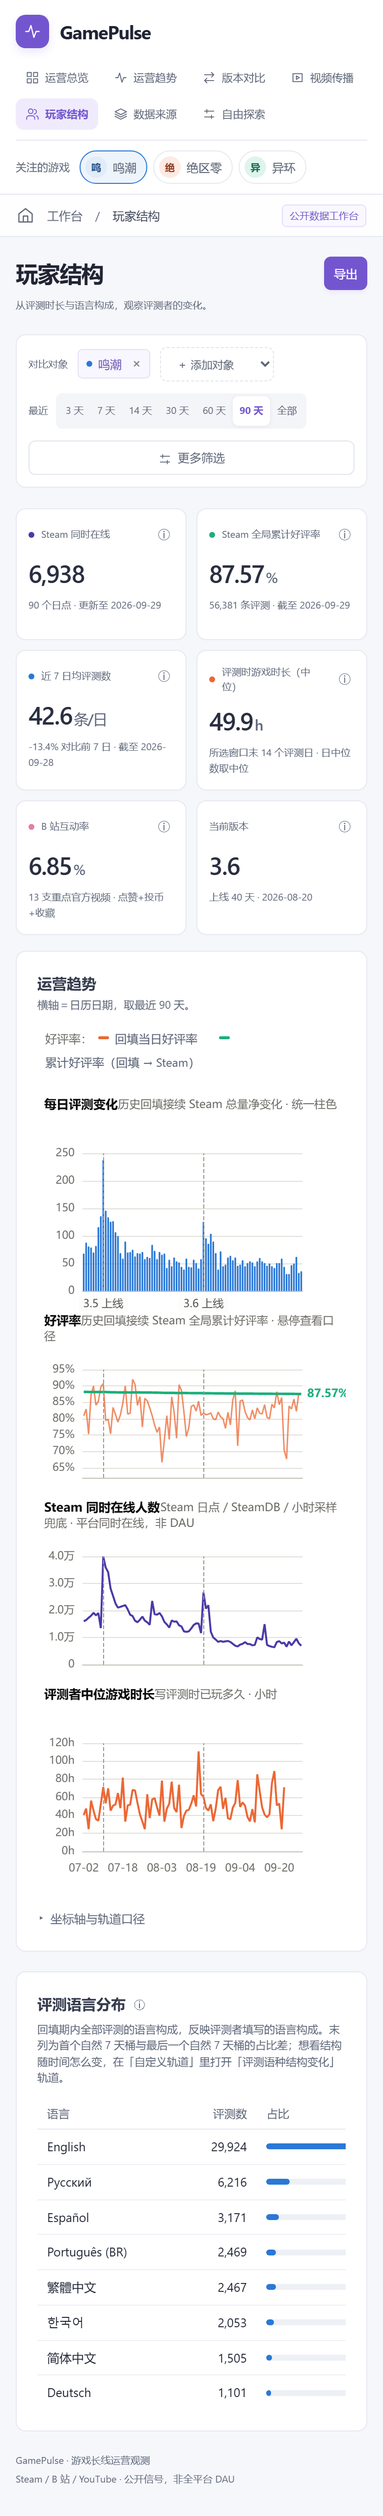
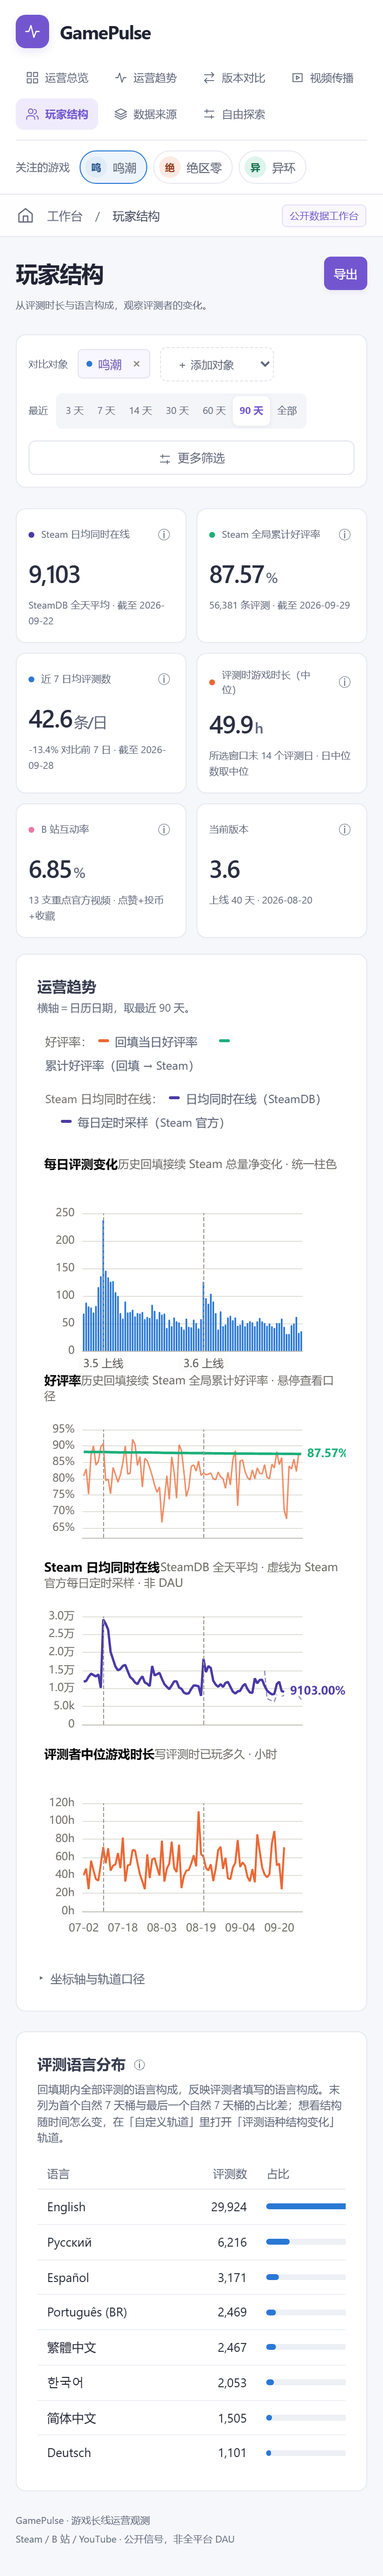
Use one comparable online-players definition
The online line used to fall back day by day from the official sample to
SteamDB's 00:00 point to the latest hourly sample. Those are taken at
different moments, so the line jumped whenever the source changed.

- Main value is SteamDB's all-day average; the official instantaneous
  sample is kept separately as a dashed reference line
- Version comparison uses the window mean of daily averages and only shows
  a delta when both windows are fully covered
- Hourly peak/trough requires 20+ samples, since the local machine is off
  at night and daytime-only samples cannot give a daily peak

diff --git a/dashboard/studio.js b/dashboard/studio.js
@@ -86,7 +86,7 @@
   for(const [id,parent] of [['cmpTable','windowTableCard'],['cadenceTable','cadenceTableCard'],['versionTable','versionTableCard'],['langTable','langTableCard']]) $(id).closest('.card').id=parent;
   const overview=document.createElement('section');overview.className='studio-overview';overview.setAttribute('aria-label','总览图表');
   overview.innerHTML=`
-    <article class="studio-card studio-chart-card"><div class="studio-card-heading"><div><h2>运营趋势</h2><p id="overviewNote">Steam 公开数据 · 随所选对象与时间范围变化</p></div><select id="demoMetric" aria-label="总览趋势指标"><option value="online">Steam 同时在线</option><option value="new_reviews">每日评测变化</option><option value="review_rate">累计好评率</option></select></div><div class="studio-legend" id="overviewLegend"></div><div id="overviewChart" role="img" aria-label="所选指标的时间趋势图"></div><button class="studio-text-button" data-page-nav="trends">展开完整时间轴 →</button></article>
+    <article class="studio-card studio-chart-card"><div class="studio-card-heading"><div><h2>运营趋势</h2><p id="overviewNote">Steam 公开数据 · 随所选对象与时间范围变化</p></div><select id="demoMetric" aria-label="总览趋势指标"><option value="online">Steam 日均同时在线</option><option value="new_reviews">每日评测变化</option><option value="review_rate">累计好评率</option></select></div><div class="studio-legend" id="overviewLegend"></div><div id="overviewChart" role="img" aria-label="所选指标的时间趋势图"></div><button class="studio-text-button" data-page-nav="trends">展开完整时间轴 →</button></article>
     <article class="studio-card studio-events-card"><div class="studio-card-heading"><h2>版本节点</h2><button class="studio-text-button" data-page-nav="versions">对比 →</button></div><p id="eventScope">所选窗口内的版本更新</p><div class="event-list" id="studioEvents"></div><div class="events-foot">节点表示更新日期，不自动推断因果</div></article>
     <article class="studio-card studio-video-card"><div class="studio-card-heading"><div><h2>官方内容表现</h2><p id="rankScope">角色 PV · 当前累计播放 · 按发布日期筛选</p></div><button class="studio-text-button" data-page-nav="videos">视频分析 →</button></div><div class="ranking-tabs" role="group" aria-label="排行来源"><button data-rank-source="bilibili" aria-pressed="true">B 站</button><button data-rank-source="global" aria-pressed="false">YouTube · 全球</button><button data-rank-source="ja" aria-pressed="false">日语</button><button data-rank-source="ko" aria-pressed="false">韩语</button><button data-rank-source="zh-tw" aria-pressed="false">繁中</button></div><div id="studioRanking"></div></article>
     <article class="studio-card"><div class="studio-card-heading"><h2>数据覆盖</h2><button class="studio-text-button" data-page-nav="sources">详情 →</button></div><p id="qualityScope">所选主对象的数据快照</p><div id="studioQuality"></div></article>`;
@@ -172,12 +172,14 @@
     const metric=$('demoMetric').value;
     const lane={...config.lanes.find(l=>l.id===metric)};
     if(metric==='review_rate')lane.series=lane.series.filter(s=>s.field==='display_cumulative_review_rate');
+    // 多个对象时只画日均；单个对象时附带官方定时采样虚线，补上 SteamDB 导入日之后的几天
+    if(metric==='online'&&subjects.length>1)lane.series=lane.series.filter(s=>s.field==='value');
     const result=ADAPTERS.series(lane,ctx);
     const visible=result.series.filter(s=>!hiddenSubjects.has(s.subject.key));
     // 颜色跟随对象：游戏用 index.json 的游戏色，版本用固定的版本色
     const colors=visible.map(s=>s.subject.color);
     $('overviewLegend').innerHTML=visible.map((s,i)=>`<span style="--mark:${esc(colors[i])}">${esc(s.name)}</span>`).join('');
-    $('overviewNote').textContent=metric==='online'?'Steam 同时在线日点 · 包含第三方历史点位 · 非 DAU':metric==='new_reviews'?'评测数（按发布日回填）/ Steam 净变化 · 缺采保留为空':'游戏全局累计好评率 · 回填接续 Steam 观测';
+    $('overviewNote').textContent=metric==='online'?'实线：SteamDB 全天平均 · 虚线：Steam 官方每日定时采样 · 非 DAU':metric==='new_reviews'?'评测数（按发布日回填）/ Steam 净变化 · 缺采保留为空':'游戏全局累计好评率 · 回填接续 Steam 观测';
     const versionMarks=ctx.multi?[]:(subjects[0].snap.events||[]).filter(e=>e.is_version_boundary).map(e=>({name:`${e.version_id} 更新`,xAxis:axisKeyOf(e.date_local,subjects[0],align)})).filter(e=>ctx.axis.keys.includes(e.xAxis));
     overviewChart.setOption({animation:false,textStyle:{fontFamily:FONT},aria:{enabled:true,label:{description:`${$('demoMetric').selectedOptions[0].textContent}趋势：${visible.map(s=>s.name).join('、')}`}},tooltip:{trigger:'axis',confine:true,backgroundColor:'#fff',borderColor:'#e9e6f0',textStyle:{color:'#515b70',fontSize:11}},grid:{left:8,right:14,top:29,bottom:9,containLabel:true},
       xAxis:{type:'category',data:ctx.axis.keys,boundaryGap:metric==='new_reviews',axisLine:{show:false},axisTick:{show:false},axisLabel:{color:'#5f6779',fontSize:10,formatter:k=>axisLabelOf(k,align),hideOverlap:true}},

diff --git a/dashboard/app.js b/dashboard/app.js
@@ -169,8 +169,8 @@ function color(slot) {
 /* 就近口径：每个指标一条，点 ⓘ 在原地展开。
    这些话原本全都挤在页面最底部那段 400 字里 —— 离它解释的数字有三屏远。 */
 const METRIC_INFO = {
-  online: { t: 'Steam 同时在线',
-    d: '平台同时在线测值，不是 DAU，也不是总玩家数。同日优先使用有效的 Steam 官方观测，其次是 SteamDB Players 点位，最后用当天最新的有效小时采样兜底；这些都不是全天均值。' },
+  online: { t: 'Steam 日均同时在线',
+    d: 'SteamDB 统计的全天平均同时在线人数，是唯一可跨日、跨版本比较的在线口径；需手动导入，更新到最近一次导入日。Steam 官方接口只给采集时刻的瞬时在线，另画成虚线作参考，不与日均拼接。都不是 DAU，也不是总玩家数。' },
   cum_rate: { t: 'Steam 全局累计好评率',
     d: 'Steam appreviews 每日返回的全局好评数 ÷ 总评测数，统计当前仍存在的评测。每日采集后会更新；版本窗口好评率另由评测明细按发布日回填重建，两者不是同一个数。' },
   avg7: { t: '近 7 日日均评测数',
@@ -913,6 +913,8 @@ function windowStats(subject) {
     online: online.length ? online[online.length - 1].value : null,
     onlineDate: online.length ? online[online.length - 1].date_local : null,
     onlinePoints: online.length,
+    onlineMean: online.length
+      ? online.reduce((sum, o) => sum + o.value, 0) / online.length : null,
     versions: versions.length,
     versionList: versions,
     avg7: a7,
@@ -952,8 +954,8 @@ function renderTiles(ctx) {
     const w = windowStats(s);
     const rateLabel = s.kind === 'version' ? VERSION_RATE_LABEL : 'Steam 全局累计好评率';
     const onlineNote = w.onlinePoints
-      ? `${fmt(w.online)} 窗口末在线 · ${w.onlineDate} · ${w.onlinePoints} 个日点`
-      : '窗口内暂无在线日点';
+      ? `${fmt(w.online)} 日均在线 · 截至 ${w.onlineDate} · ${w.onlinePoints} 天`
+      : '窗口内暂无日均在线数据';
     const value = w.dailyAvg != null
       ? `<div class="v">${w.dailyAvg.toFixed(1)}<span class="unit">条/日</span></div>`
       : `<div class="v na">窗口内暂无评测数据</div>`;
@@ -1012,10 +1014,10 @@ function singleGameTiles(subject) {
         na: '样本不足：近 7 个自然日有缺采' };
 
   const tiles = [
-    { k: 'Steam 同时在线', swatch: color('slot7'), info: 'online',
+    { k: 'Steam 日均同时在线', swatch: color('slot7'), info: 'online',
       v: w.onlinePoints ? fmt(w.online) : null,
-      n: `${w.onlinePoints} 个日点 · 更新至 ${w.onlineDate}`,
-      na: '窗口内暂无在线日点' },
+      n: `SteamDB 全天平均 · 截至 ${w.onlineDate}`,
+      na: '窗口内暂无日均在线数据（SteamDB 需手动导入）' },
     { k: 'Steam 全局累计好评率', swatch: color('slot3'), info: 'cum_rate',
       v: w.cumRate != null ? w.cumRate.toFixed(2) : null, unit: '%',
       n: `${fmt(w.totalReviews)} 条评测 · 截至 ${w.cumRateDate}`,
@@ -1862,9 +1864,9 @@ function renderSources(ctx) {
     `<b>逐日评测明细历史是回填重建的，不是原始记录。</b>由 Steam appreviews 游标翻页回填
      （${covLines}）；上次全量样本每日补入近期评测，旧评测的删除或编辑每周全量校准。
      版本窗口好评率只画到明细覆盖日。`,
-    `<b>Steam 同时在线日点来自官方采样、SteamDB 和小时采样。</b>同日先取有效的
-     官方观测，再取 SteamDB Players 点位，最后用当天最新的有效小时采样兜底；
-     它不代表全天均值、DAU 或总玩家数。目前各对象分别有 ${onlinePts.join(' / ')} 个日点。`,
+    `<b>Steam 在线只用一个可比口径：SteamDB 全天平均同时在线。</b>官方接口的每日定时
+     瞬时采样另画虚线，不与日均拼成一条线；它们都不是 DAU 或总玩家数。
+     目前各对象分别有 ${onlinePts.join(' / ')} 天日均数据。`,
     `<b>所有事件只表示时间节点，不表示因果关系。</b>版本更新竖线取自 Steam 官方公告，
      构建号来自 SteamCMD 第三方镜像（仅作旁证）。`,
   ];

diff --git a/dashboard/studio-details.js b/dashboard/studio-details.js
@@ -84,7 +84,7 @@
       {title:'窗口评测数',unit:'条',values:stats.map(w=>w.dailyAvgBasis==='surviving_review_backfill'?w.historicalReviews:w.reviews),digits:0,valid:sameBasis,tip:BACKFILL_TIP,note:sameBasis?(stats[0].dailyAvgBasis==='surviving_review_backfill'?`${span} · 按发布日回填，已删除的评测不计入`:'Steam 总评测数净变化'):'统计口径不同，暂不计算差值'},
       {title:'窗口日均评测数',unit:'条 / 日',values:stats.map(w=>w.dailyAvg),digits:1,valid:sameBasis,note:'窗口评测数 ÷ 有效覆盖天数'},
       {title:versions?VERSION_RATE_LABEL:'累计好评率',unit:'%',values:stats.map(w=>w.rate),digits:2,valid:pair[0].kind===pair[1].kind,percent:true,note:versions?`${span}内新增评测的好评占比（按发布日回填）；不是游戏整体累计好评率`:'混合对象口径不同，差值仅同类展示'},
-      {title:'窗口末同时在线',unit:'人',values:stats.map(w=>w.onlinePoints?w.online:null),digits:0,valid:false,note:`日点：A ${stats[0].onlineDate||'暂无'} / B ${stats[1].onlineDate||'暂无'} · 采样时刻不同，不计算差值 · 非 DAU`},
+      {title:'窗口日均同时在线',unit:'人',values:stats.map(w=>w.onlineMean),digits:0,valid:stats.every(w=>w.onlinePoints&&w.onlinePoints===w.windowDays),note:stats.every(w=>w.onlinePoints===w.windowDays)?`SteamDB 全天平均的窗口均值 · 两侧均覆盖 ${stats[0].windowDays} 天 · 非 DAU`:`SteamDB 日均覆盖：A ${stats[0].onlinePoints}/${stats[0].windowDays} 天，B ${stats[1].onlinePoints}/${stats[1].windowDays} 天 · 覆盖不全，不计算差值`},
     ];
     $('compareMetrics').innerHTML=rows.map(row=>{
       const [a,b]=row.values;
@@ -103,8 +103,8 @@
     let series=ADAPTERS.series(lane,ctx).series;
     if(compareMetric==='review_rate'&&pair.every(s=>s.kind==='version'))series=series.filter(s=>s.dashed);
     const colors=pair.map(s=>s.color);
-    const label=compareMetric==='new_reviews'?'每日评测数':compareMetric==='online'?'Steam 同时在线':`${VERSION_RATE_LABEL}（自更新日累计）`;
-    $('compareChartNote').textContent=compareMetric==='review_rate'?(pair.every(s=>s.kind==='version')?'各版本从更新日重新累计，终点即上方卡片的版本窗口好评率 · 缺采保留为空':'游戏全局累计好评率 · 历史回填接续观测'):compareMetric==='new_reviews'?'评测数按发布日回填（已删除的评测不计入）/ Steam 净变化 · 颜色代表对比对象':'Steam / SteamDB 日点 · 同一阶段不代表同一采样时刻';
+    const label=compareMetric==='new_reviews'?'每日评测数':compareMetric==='online'?'Steam 日均同时在线':`${VERSION_RATE_LABEL}（自更新日累计）`;
+    $('compareChartNote').textContent=compareMetric==='review_rate'?(pair.every(s=>s.kind==='version')?'各版本从更新日重新累计，终点即上方卡片的版本窗口好评率 · 缺采保留为空':'游戏全局累计好评率 · 历史回填接续观测'):compareMetric==='new_reviews'?'评测数按发布日回填（已删除的评测不计入）/ Steam 净变化 · 颜色代表对比对象':'SteamDB 全天平均同时在线 · 同一口径可直接比较 · 非 DAU';
     $('compareLegend').innerHTML=pair.map((s,i)=>`<span><i style="background:${e(colors[i])}"></i>${i?'B':'A'} · ${e(s.label)}</span>`).join('');
     compareChart.setOption({animation:false,textStyle:{fontFamily:FONT},aria:{enabled:true,label:{description:`${label}：${pair.map((s,i)=>(i?'B ':'A ')+s.label).join('，')}，横轴为${align==='day0'?'各自更新后第 N 天':'日历日期'}`}},title:{text:label,left:8,top:0,textStyle:{fontSize:11,fontWeight:400,color:'#5f6779'}},tooltip:{trigger:'axis',confine:true},grid:{left:12,right:22,top:36,bottom:20,containLabel:true},
       xAxis:{type:'category',data:ctx.axis.keys,boundaryGap:compareMetric==='new_reviews',axisLine:{show:false},axisTick:{show:false},axisLabel:{fontSize:11,color:'#5f6779',formatter:k=>align==='day0'?'D'+k:k.slice(5),hideOverlap:true}},

diff --git a/dashboard/engine.js b/dashboard/engine.js
@@ -1460,12 +1460,10 @@ function buildTooltip(params, laneData, ctx) {
         }
       }
       if (lane.id === 'online' && rowMeta?.source) {
-        if (rowMeta.source === 'steamdb_chart') {
-          extra.push('SteamDB 图表日点');
-        } else if (rowMeta.source === 'steam_hourly_fallback') {
-          extra.push(`当天 ${rowMeta.hour_local ?? '—'}:00 小时采样兜底`);
-        } else if (rowMeta.source === 'steam_official') {
-          extra.push('Steam 官方日采样');
+        if (def.field === 'spot') {
+          extra.push('Steam 官方采集时刻的瞬时值，非日均');
+        } else if (rowMeta.source === 'steamdb_average') {
+          extra.push('SteamDB 全天平均');
         }
       }
       s += row(def.color, def.name, toText(v),

diff --git a/pipeline/metrics.py b/pipeline/metrics.py
@@ -63,65 +63,52 @@ def review_rate(positive: int | None, total: int | None) -> float | None:
 
 def merge_online_observations(steam_records: list[dict],
                               steamdb_records: list[dict],
-                              hourly_records: list[dict]) -> list[dict]:
-    """Prefer valid official daily points, then SteamDB, then hourly samples.
+                              hourly_records: list[dict] | None = None) -> list[dict]:
+    """日均同时在线为主值，官方定时采样作为旁证，两种口径不拼接。
 
-    An unavailable official request cannot erase an observed fallback value.
-    The hourly fallback is the latest successful point of that date, not a DAU.
+    过去同一条线按「官方日采 → SteamDB 00:00 点位 → 当天最新小时采样」逐日兜底，
+    三者的采样时刻各不相同，曲线在切换来源的那天会出现并不存在的跳变。
+
+    - value：SteamDB 全天平均同时在线（Average Players），唯一可跨版本比较的口径；
+    - spot：Steam 官方接口在每日采集时刻的瞬时在线，只作最近几天的参考。
+
+    小时采样依赖本机开机，夜间通常缺失，算不出全天均值，这里不再用它兜底。
     """
-    by_date = {
-        row["date_local"]: row
-        for row in steamdb_records
-        if row.get("current_players") is not None
-    }
-    for sample in sorted(hourly_records,
-                         key=lambda r: (r.get("date_local", ""),
-                                        r.get("hour_local", -1))):
-        if sample.get("players") is None:
-            continue
-        date_local = sample["date_local"]
-        by_date.setdefault(date_local, {
-            "date_local": date_local,
-            "current_players": sample["players"],
-            "source": "steam_hourly_fallback",
-            "hour_local": sample.get("hour_local"),
+    by_date: dict[str, dict] = {}
+
+    def row(date_local: str) -> dict:
+        return by_date.setdefault(date_local, {
+            "date_local": date_local, "value": None, "source": None,
+            "spot": None, "spot_at": None,
         })
-        if by_date[date_local].get("source") == "steam_hourly_fallback":
-            by_date[date_local] = {
-                "date_local": date_local,
-                "current_players": sample["players"],
-                "source": "steam_hourly_fallback",
-                "hour_local": sample.get("hour_local"),
-            }
-    for row in steam_records:
-        date_local = row["date_local"]
-        if row.get("current_players") is not None or date_local not in by_date:
-            by_date[date_local] = {**row, "source": "steam_official"}
+
+    for rec in steamdb_records:
+        average = rec.get("average_players")
+        if average is not None:
+            r = row(rec["date_local"])
+            r["value"], r["source"] = average, "steamdb_average"
+    for rec in steam_records:
+        players = rec.get("current_players")
+        if players is not None and rec.get("source") != "steamdb_chart":
+            r = row(rec["date_local"])
+            r["spot"], r["spot_at"] = players, rec.get("sampled_at")
     return [by_date[d] for d in sorted(by_date)]
 
 
-def online_series(steam_records: list[dict]) -> list[dict]:
-    out = []
-    for rec in steam_records:
-        value = rec.get("current_players")
-        out.append({
-            "date_local": rec["date_local"],
-            "value": value,
-            "status": OBSERVED if value is not None else UNAVAILABLE,
-            "source": rec.get("source", "steam_official"),
-            "hour_local": rec.get("hour_local"),
-        })
-    return out
+def online_series(rows: list[dict]) -> list[dict]:
+    return [{**r, "status": OBSERVED if r.get("value") is not None else UNAVAILABLE}
+            for r in rows]
 
 
-def online_daily(hourly_records: list[dict], min_samples: int = 6) -> list[dict]:
+def online_daily(hourly_records: list[dict], min_samples: int = 20) -> list[dict]:
     """把小时级采样聚合成日峰值 / 日谷值 / 日均值。
 
     单点日采只能得到「某一时刻的在线数」，无法区分「整体盘子变大」和
     「采样时刻恰好撞上活跃高峰」。小时级采样后，峰谷比与峰值出现时刻
     才有意义 —— 后者还能反过来佐证玩家的地域构成。
 
-    采样数不足 min_samples 的日期标 partial：半天的样本算不出真实日峰值。
+    采样数不足 min_samples 的日期标 partial：小时采样依赖本机开机，夜间常缺，
+    只有白天几个小时的样本算不出真实的日峰值与日谷值。
     """
     by_date: dict[str, list[dict]] = {}
     for rec in hourly_records:

diff --git a/tests/test_metrics.py b/tests/test_metrics.py
@@ -39,36 +39,35 @@ class TestReviewRate(unittest.TestCase):
         self.assertEqual(out[-1]["total_reviews"], 56111)
 
 
-class TestOnlineFallback(unittest.TestCase):
-    def test_unavailable_official_point_keeps_observed_fallback(self):
+class TestOnlineDefinition(unittest.TestCase):
+    """主值只用全天均值；官方瞬时采样单独保存，不按天拼接不同口径。"""
+
+    def test_daily_average_and_spot_are_separate(self):
         steam = [
-            {"date_local": "2026-09-17", "current_players": None},
-            {"date_local": "2026-09-18", "current_players": 300},
-            {"date_local": "2026-09-20", "current_players": None},
+            {"date_local": "2026-09-21", "current_players": 7000,
+             "sampled_at": "2026-09-21T05:20:00+00:00"},
+            {"date_local": "2026-09-23", "current_players": 6500},
+            {"date_local": "2026-09-24", "current_players": None},
         ]
         steamdb = [
-            {"date_local": "2026-09-17", "current_players": 200,
+            {"date_local": "2026-09-21", "current_players": 7776, "average_players": 9246,
              "source": "steamdb_chart"},
-            {"date_local": "2026-09-18", "current_players": 250,
+            {"date_local": "2026-09-22", "current_players": 7908, "average_players": None,
              "source": "steamdb_chart"},
         ]
-        hourly = [
-            {"date_local": "2026-09-17", "hour_local": 12, "players": 180},
-            {"date_local": "2026-09-19", "hour_local": 11, "players": 100},
-            {"date_local": "2026-09-19", "hour_local": 12, "players": None},
-            {"date_local": "2026-09-19", "hour_local": 13, "players": 110},
-        ]
-        merged = metrics.merge_online_observations(steam, steamdb, hourly)
-        by_date = {r["date_local"]: r for r in metrics.online_series(merged)}
+        by_date = {r["date_local"]: r for r in metrics.online_series(
+            metrics.merge_online_observations(steam, steamdb))}
 
-        self.assertEqual(by_date["2026-09-17"]["value"], 200)
-        self.assertEqual(by_date["2026-09-17"]["source"], "steamdb_chart")
-        self.assertEqual(by_date["2026-09-18"]["value"], 300)
-        self.assertEqual(by_date["2026-09-18"]["source"], "steam_official")
-        self.assertEqual(by_date["2026-09-19"]["value"], 110)
-        self.assertEqual(by_date["2026-09-19"]["hour_local"], 13)
-        self.assertIsNone(by_date["2026-09-20"]["value"])
-
+        self.assertEqual(by_date["2026-09-21"]["value"], 9246)
+        self.assertEqual(by_date["2026-09-21"]["source"], "steamdb_average")
+        self.assertEqual(by_date["2026-09-21"]["spot"], 7000)
+        # SteamDB 的单时刻点位不是全天均值，不能顶替主值
+        self.assertNotIn("2026-09-22", by_date)
+        # 只有官方瞬时采样的日期：主值留空，而不是用瞬时值冒充日均
+        self.assertIsNone(by_date["2026-09-23"]["value"])
+        self.assertEqual(by_date["2026-09-23"]["status"], "unavailable")
+        self.assertEqual(by_date["2026-09-23"]["spot"], 6500)
+        self.assertNotIn("2026-09-24", by_date)
 
 class TestNewReviewSeries(unittest.TestCase):
     def test_first_point_has_no_baseline(self):
@@ -252,7 +251,8 @@ class TestOnlineDaily(unittest.TestCase):
                 for h, p in zip(range(n), players)]
 
     def test_peak_trough_and_ratio(self):
-        out = metrics.online_daily(self._samples(8, [10, 20, 30, 40, 35, 25, 15, 12]))
+        players = [10, 20, 30, 40, 35, 25, 15, 12] + [20] * 14
+        out = metrics.online_daily(self._samples(22, players))
         day = out[0]
         self.assertEqual(day["peak"], 40)
         self.assertEqual(day["trough"], 10)
@@ -261,10 +261,10 @@ class TestOnlineDaily(unittest.TestCase):
         self.assertEqual(day["status"], "observed")
 
     def test_thin_sampling_marked_partial(self):
-        """半天的样本算不出真实日峰值，必须标 partial 而不是当作完整日。"""
-        out = metrics.online_daily(self._samples(3, [10, 20, 30]))
+        """白天几个小时的样本算不出真实日峰值，必须标 partial 而不是当作完整日。"""
+        out = metrics.online_daily(self._samples(9, [10, 20, 30, 40, 50, 60, 70, 80, 90]))
         self.assertEqual(out[0]["status"], "partial")
-        self.assertEqual(out[0]["samples"], 3)
+        self.assertEqual(out[0]["samples"], 9)
 
     def test_unavailable_samples_are_skipped_not_zeroed(self):
         samples = self._samples(6, [10, 20, 30, 40, 50, 60])

diff --git a/pipeline/build_snapshot.py b/pipeline/build_snapshot.py
@@ -338,7 +338,7 @@ def _build(game_id: str) -> dict:
     # 按语区取数时会整体消失。把数量摆出来，让它成为一个能被发现的问题。
     yt_unassigned = [s for s in yt_videos.values() if not s.get("locale")]
 
-    issues = quality.check(steam, bili)
+    issues = quality.check(steam, bili, today_local())
 
     version_updates = load_yaml("versions.yml").get(game_id) or {}
     events = build_events(news, price_points, videos, yt_videos, builds,
@@ -362,8 +362,7 @@ def _build(game_id: str) -> dict:
 
     # Keep a valid SteamDB or hourly point when the official daily request
     # timed out. Null must never replace an already observed value.
-    online_observations = metrics.merge_online_observations(
-        steam, online_history, online_hourly)
+    online_observations = metrics.merge_online_observations(steam, online_history)
 
     # 回填的评测历史与逐日采集分开存放：前者是 reconstructed（只含今天仍存在
     # 的评测，早期日期偏低），后者是 observed。两者不可混成一条线。

diff --git a/docs/technical-notes.md b/docs/technical-notes.md
@@ -17,7 +17,7 @@
 | 来的是什么人 | 评测者写评测时的游戏时长分布：2 小时内 vs 100 小时以上 |
 | 玩家来源结构在变吗 | 评测语种构成的 7 天分桶变化 |
 | 官方视频是真的火还是只是推荐位给得多 | 互动率（点赞+投币+收藏）/ 播放，跨视频可比 |
-| 在线是盘子变大还是采样撞上高峰 | 小时级采样出的日峰值 / 日谷值 / 峰谷比 |
+| 在线盘子怎么变 | SteamDB 全天平均同时在线，按版本窗口求均值后比较 |
 | 版本到底哪天更新的 | Steam 官方公告 + SteamCMD 构建号双重证据 |
 | 这个版本比上个版本好吗 | 把两个版本窗口按各自更新日对齐，逐日并排看 |
 
@@ -316,7 +316,13 @@ YouTube 可补充海外传播侧的公开信号，但无法证明其观众与 St
 
 ## 口径说明
 
-- **Steam 在线人数**：平台同时在线观测值，不是 DAU，也不是玩家总数。历史日点可由 SteamDB Charts CSV 手工回填；同日优先用有效的 Steam 官方日点，其次用 SteamDB `Players` 点位，最后用当天最新的有效小时采样。官方请求超时的 `null` 不会覆盖已有点位；SteamDB 的 `Average Players` 不等于该点位。
+- **Steam 在线人数只用一个可比口径：日均同时在线。** 主值是 SteamDB Charts 导出的
+  `Average Players`（全天平均），版本对比取窗口内日均的平均值，两侧覆盖天数不同就不计算差值。
+  Steam 官方接口只返回采集那一刻的瞬时在线，作为 `spot` 单独保存、画成虚线，只作最近几天的参考。
+  过去同一条线按「官方日采 → SteamDB 00:00 点位 → 当天最新小时采样」逐日兜底，三者采样时刻不同，
+  曲线在切换来源那天出现并不存在的跳变；现在两种口径不再拼接。都不是 DAU，也不是玩家总数。
+- **小时峰谷只在采样完整时成立**：小时采样依赖本机开机，夜间常缺，每天实际只有 3–9 个白天样本。
+  少于 20 个样本的日期标 `partial`，不把白天的最高值当作日峰值。
 - **Steam 评测净增**：相邻日总评测数的差值，包含新增与删除评测；缺采时按跨日净变化计算，不是精确新增量，也不是玩家数。
 - **Steam 累计好评率**：每日从 appreviews 汇总读取全局好评数 ÷ 总评测数；版本滚动累计好评率来自每日评测明细回填，覆盖日期以看板标注为准。
 - **评测历史为回填重建**：全量基底只含上次全量运行时仍存在的评测，日常增量补进近期评测；
@@ -329,7 +335,9 @@ YouTube 可补充海外传播侧的公开信号，但无法证明其观众与 St
   这种差异受到观测窗口长度的显著影响，不能直接解释为留存变化。因此窗口不足 14 天的日期一律留空，
   且该指标被硬性排除在版本前后对比之外——更新日之后的窗口永远离今天更近，
   放进对比表等于系统性地造出「每次更新后留存都下降」。
-- **Steam 在线历史不能通过 Steam 官方接口回填**；导入的 SteamDB CSV 日点标记为第三方来源，不代表全天均值或 DAU。
+- **Steam 在线历史不能通过 Steam 官方接口回填**；SteamDB 日均为第三方来源，需手动导出 CSV 后导入，
+  日均曲线只更新到最近一次导入日。SteamDB 导出的日汇总按 UTC 自然日统计，与本项目 UTC+8 业务日有 8 小时偏移；
+  跨版本比较的是同一口径的窗口均值，偏移对两侧相同。
 - **B 站/YouTube 播放量**：接口只返回当前累计值，没有历史曲线。散点轨道画的是
   「发布日 × 当前累计值」，不是当日播放量，也不是全站播放量或独立观众数。
   **拿当前累计值跨视频比是不公平的** —— 等于拿上线一年的游戏和上线一周的
@@ -354,8 +362,6 @@ YouTube 可补充海外传播侧的公开信号，但无法证明其观众与 St
 - **播放量不分地区**：`statistics.viewCount` 是全球累计值，公开 API 不提供
   按地区的拆分（那属于频道所有者的 YouTube Analytics）。本项目的「语区」
   指的是官方开设的语区频道，不是同一支视频的地区播放拆分。
-- **在线人数对已结束的版本窗口留空**。在线只有「现在」这一个观测值，
-  拿它代表一段历史窗口，会让两个历史版本显示出同一个数。
 - **构建号来自第三方镜像**，标 `third_party`，仅作官方公告的旁证。
 - **事件仅表示时间节点，不自动表示因果关系。**
 
@@ -443,8 +449,8 @@ node tools/shoot.mjs --all                            # 需先启动 http 服务
 
 ## 已知限制
 
-- 逐日在线序列数据点仍很少，正式趋势复盘应在连续采集 30 天以上再做；
-  小时级采样自 2026-09-14 起才开始积累。
+- 自有的逐日采集自 2026-09-14 起才开始积累；更早的在线数据来自 SteamDB 导入，评测来自回填重建。
+  SteamDB 没有可用的自动接口，日均在线需要定期手动导出更新。
 - B 站视频为人工登记，不覆盖全部官方内容，也不含创作者视频。
 - YouTube 未配置 Key 时该平台数据为空。2026-09-16 至 09-28 因计划任务缺少代理，
   YouTube 仅有 09-17（部分）与 09-22 两天有效观测，这段缺口无法补采；
